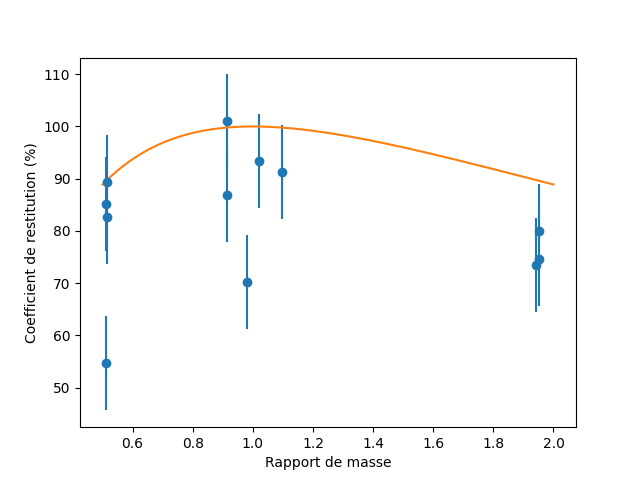
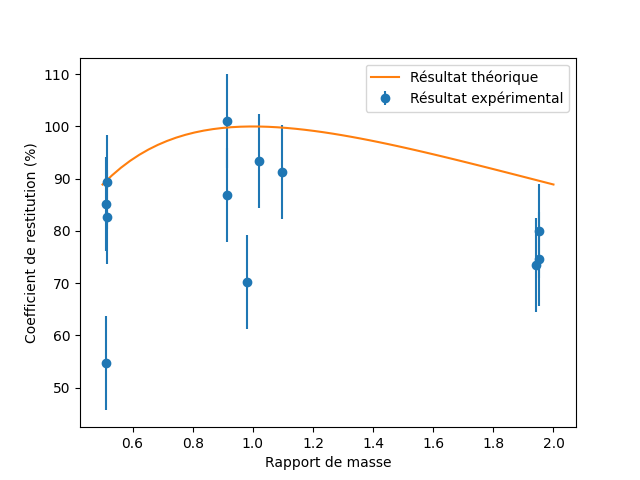
TP 2

Changed region(s): [[0.5625, 0.125, 0.9062, 0.2188]]

diff --git a/MethExp_TP2/MethExp_TP2.tex b/MethExp_TP2/MethExp_TP2.tex
@@ -233,6 +233,7 @@ Dans notre cas, on a fait les expériences de telles sortes que les chocs soient
 
 Néanmoins, on a de grandes incertitudes, ce qui réduit l'interprétation possible de nos résultats. On suppose qu'avec des incertitudes plus faibles, les relations d'égalités ne seraient peut-être pas vérifiées, car  on ne peut pas supprimer totalement les forces de frottements et les aimants ne rendent pas  les chocs totalement élastiques.  
 
+\newpage
 \section{Transfert d'énergie cinétique}
 Dans cette partie on se propose d'étudier le transfert d'énergie cinétique d'un mobile en mouvement vers 
 un mobile au repos. 
@@ -259,6 +260,7 @@ fournit par le logiciel n'est pas continu, les valeurs oscillent beaucoup. Pour 
     \delta E_c = \frac{v^2}{2} \delta m + mv \delta v
 \end{gather}
 
+\newpage
 On reporte donc les résultats dans ce tableau:
 
 
@@ -267,18 +269,19 @@ On reporte donc les résultats dans ce tableau:
         \begin{tabular}{|c|c|c|c|c|c|c|}
             \hline
             R & $v_{i1}$ (m/s) & $v_{f1}$ (m/s) & $v_{f2}$ (m/s) & $E_{ci1}$ (J) & $E_{cf1}$ (J) & $E_{cf2}$ (J) \\ \hline
-            0.982 & 0.4 $\pm$ 0.1 & 0.0 $\pm$ 0.4 & 0.33 $\pm$ 0.07 & 0.04 $\pm$ 0.02 & 0.0 $\pm$ 0.005 & 0.03 $\pm$ 0.01 \\ 
-            0.914 & 0.4 $\pm$ 0.1 & 0.0 $\pm$ 0.4 & 0.37 $\pm$ 0.07 & 0.04 $\pm$ 0.02 & 0.0 $\pm$ 0.0 & 0.04 $\pm$ 0.01 \\ 
-            0.516 & 0.4 $\pm$ 0.1 & 0.1 $\pm$ 0.5 & 0.29 $\pm$ 0.04 & 0.05 $\pm$ 0.03 & 0.0 $\pm$ 0.02 & 0.04 $\pm$ 0.01 \\ 
-            0.513 & 0.4 $\pm$ 0.2 & 0.1 $\pm$ 0.5 & 0.3 $\pm$ 0.02 & 0.05 $\pm$ 0.04 & 0.01 $\pm$ 0.04 & 0.045 $\pm$ 0.005 \\ 
-            1.020 & 0.6 $\pm$ 0.4 & 0.0 $\pm$ 0.4 & 0.6 $\pm$ 0.3 & 0.1 $\pm$ 0.1 & 0.0 $\pm$ 0.0 & 0.1 $\pm$ 0.1 \\ 
-            1.095 & 0.4 $\pm$ 0.2 & 0.0 $\pm$ 0.3 & 0.4 $\pm$ 0.2 & 0.06 $\pm$ 0.04 & 0.0 $\pm$ 0.004 & 0.05 $\pm$ 0.04 \\ 
-            1.942 & 0.27 $\pm$ 0.04 & 0.1 $\pm$ 0.3 & 0.33 $\pm$ 0.03 & 0.04 $\pm$ 0.01 & 0.0 $\pm$ 0.02 & 0.028 $\pm$ 0.005 \\ 
-            1.951 & 0.4 $\pm$ 0.2 & 0.1 $\pm$ 0.2 & 0.5 $\pm$ 0.3 & 0.1 $\pm$ 0.08 & 0.01 $\pm$ 0.03 & 0.07 $\pm$ 0.08 \\ 
-            0.516 & 0.5 $\pm$ 0.3 & 0.2 $\pm$ 0.6 & 0.36 $\pm$ 0.07 & 0.08 $\pm$ 0.08 & 0.01 $\pm$ 0.05 & 0.06 $\pm$ 0.02 \\ 
-            0.513 & 0.5 $\pm$ 0.2 & 0.2 $\pm$ 0.5 & 0.27 $\pm$ 0.03 & 0.07 $\pm$ 0.06 & 0.01 $\pm$ 0.04 & 0.038 $\pm$ 0.009 \\ 
-            0.914 & 0.4 $\pm$ 0.1 & 0.0 $\pm$ 0.4 & 0.37 $\pm$ 0.08 & 0.05 $\pm$ 0.03 & 0.0 $\pm$ 0.004 & 0.04 $\pm$ 0.02 \\ 
-            1.951 & 0.36 $\pm$ 0.05 & 0.1 $\pm$ 0.2 & 0.5 $\pm$ 0.2 & 0.07 $\pm$ 0.02 & 0.01 $\pm$ 0.02 & 0.05 $\pm$ 0.04 \\ 
+            0.982 & 0.4 $\pm$ 0.3 & 0.0 $\pm$ 0.2 & 0.3 $\pm$ 0.2 & 0.04 $\pm$ 0.06 & 0.0 $\pm$ 0.002 & 0.03 $\pm$ 0.04 \\ 
+0.914 & 0.4 $\pm$ 0.3 & 0.0 $\pm$ 0.2 & 0.4 $\pm$ 0.2 & 0.04 $\pm$ 0.06 & 0.0 $\pm$ 0.04 & 0.04 $\pm$ 0.05 \\ 
+0.516 & 0.4 $\pm$ 0.3 & 0.1 $\pm$ 0.3 & 0.3 $\pm$ 0.1 & 0.05 $\pm$ 0.07 & 0.0 $\pm$ 0.01 & 0.04 $\pm$ 0.04 \\ 
+0.513 & 0.4 $\pm$ 0.4 & 0.1 $\pm$ 0.3 & 0.3 $\pm$ 0.2 & 0.05 $\pm$ 0.09 & 0.01 $\pm$ 0.03 & 0.04 $\pm$ 0.05 \\ 
+1.020 & 0.6 $\pm$ 0.5 & 0.0 $\pm$ 0.2 & 0.6 $\pm$ 0.5 & 0.1 $\pm$ 0.2 & 0.0 $\pm$ 0.04 & 0.1 $\pm$ 0.2 \\ 
+1.095 & 0.4 $\pm$ 0.3 & 0.0 $\pm$ 0.1 & 0.4 $\pm$ 0.4 & 0.06 $\pm$ 0.09 & 0.0 $\pm$ 0.002 & 0.05 $\pm$ 0.09 \\ 
+1.942 & 0.3 $\pm$ 0.1 & 0.09 $\pm$ 0.08 & 0.3 $\pm$ 0.2 & 0.04 $\pm$ 0.04 & 0.004 $\pm$ 0.008 & 0.03 $\pm$ 0.04 \\ 
+1.951 & 0.4 $\pm$ 0.3 & 0.14 $\pm$ 0.01 & 0.5 $\pm$ 0.5 & 0.1 $\pm$ 0.2 & 0.01 $\pm$ 0.002 & 0.1 $\pm$ 0.1 \\ 
+0.516 & 0.5 $\pm$ 0.5 & 0.2 $\pm$ 0.4 & 0.4 $\pm$ 0.2 & 0.1 $\pm$ 0.1 & 0.01 $\pm$ 0.04 & 0.06 $\pm$ 0.09 \\ 
+0.513 & 0.5 $\pm$ 0.4 & 0.2 $\pm$ 0.3 & 0.3 $\pm$ 0.1 & 0.1 $\pm$ 0.1 & 0.01 $\pm$ 0.03 & 0.04 $\pm$ 0.04 \\ 
+0.914 & 0.4 $\pm$ 0.3 & 0.0 $\pm$ 0.2 & 0.4 $\pm$ 0.3 & 0.05 $\pm$ 0.07 & 0.0 $\pm$ 0.002 & 0.04 $\pm$ 0.05 \\ 
+1.951 & 0.4 $\pm$ 0.2 & 0.11 $\pm$ 0.03 & 0.5 $\pm$ 0.3 & 0.07 $\pm$ 0.09 & 0.007 $\pm$ 0.003 & 0.05 $\pm$ 0.08 \\ 
+
             \hline
         \end{tabular}
     \end{center}
@@ -299,7 +302,6 @@ est bien à l'arrêt, comme c'est le cas dans la deuxième ligne par exemple.
 Pour déterminer l'incertitude sur $R$ due à la force entre les aimants qu'on ne peut mesurer, nous avons répété plusieurs fois la même situation à un même rapport de masse, 
 et on a obtenu un écart de $R$ d'environ 10\% que l'on a reporté sur le graphique ci-dessus.
 
-\newpage
 On remarque sur le graphique un écart considérable entre la valeur théorique et la valeur expérimentale. Cet écart peut s'expliquer par notre hypothèse, où l'on suppose le choc parfaitement élastique, alors
 que les chocs ne sont jamais totalement élastique, ce qui invalide notre hypothèse initiale. De plus, pour approcher des conditions d'un choc élastique, les chariots ne collisionnent pas réellement, mais le choc se produit
 au travers d'aimant qui se repousse entre eux. La force entre les deux aimants est indépendante et l'on ne peut pas la mesurer, on ne peut donc pas estimer l'incertitude dessus, et quantifier si cette force 

diff --git a/MethExp_TP2/main.py b/MethExp_TP2/main.py
@@ -15,7 +15,7 @@ def chiffre_cs(x, u):
     while str(val)[0] == "0":
         apres_virgule += 1
         val *= 10
-    return f"{round(x, apres_virgule)} \\pm {round(u, apres_virgule)}"
+    return f"{round(x, apres_virgule)} $\\pm$ {round(u, apres_virgule)}"
 
 # uncertainty
 dt = 0.033 #s
@@ -123,4 +123,5 @@ plt.errorbar(rapport_mass, R_exp, fmt="o", yerr=9, label="Résultat expérimenta
 plt.plot(rapport_mass_linspace, R_th, "-", label="Résultat théorique")
 plt.xlabel("Rapport de masse")
 plt.ylabel("Coefficient de restitution (%)")
+plt.legend()
 plt.show()
